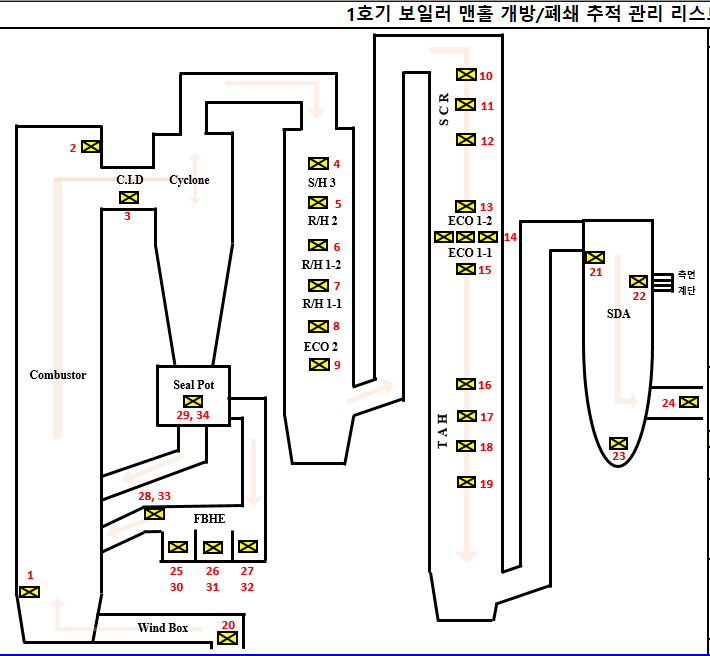
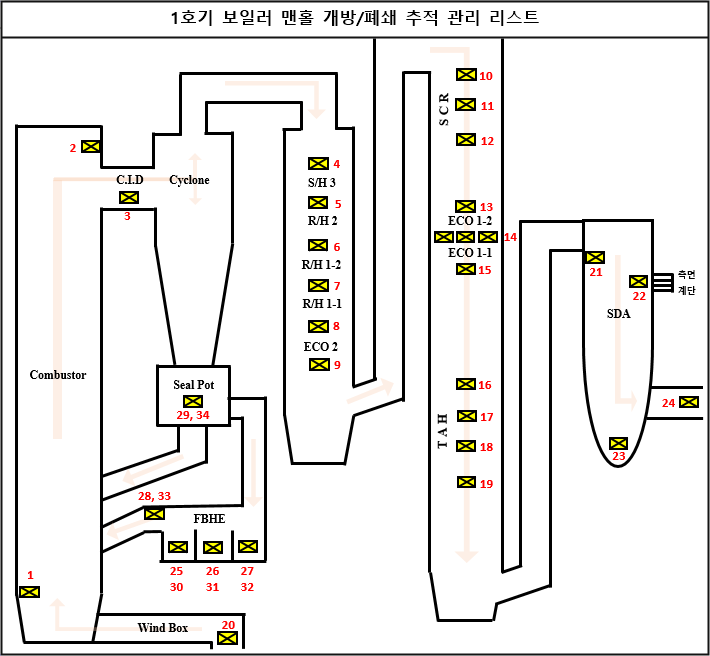
맨홀 도면 정리 및 상태 halo 좌표 보정

Changed region(s): [[0.0, 0.0, 1.0, 1.0]]

diff --git a/maintenance/manhole-management.css b/maintenance/manhole-management.css
@@ -2708,3 +2708,114 @@ tr.is-close [data-manhole-diagram-status-group]::before {
 .manhole-table tbody tr.is-close td {
   background: #eef1f4 !important;
 }
+
+/* =========================================================
+   MANHOLE_FINAL_STATUS_ANCHOR_V19
+========================================================= */
+
+.manhole-original-diagram,
+.manhole-original-diagram__image {
+  border: 0 !important;
+  outline: 0 !important;
+  box-shadow: none !important;
+  filter: none !important;
+}
+
+.manhole-diagram-status-symbol {
+  position: absolute !important;
+  left: var(--marker-x) !important;
+  top: var(--marker-y) !important;
+  width: 0 !important;
+  height: 0 !important;
+  min-width: 0 !important;
+  min-height: 0 !important;
+  transform: none !important;
+  border: 0 !important;
+  outline: 0 !important;
+  background: transparent !important;
+  box-shadow: none !important;
+  filter: none !important;
+  color: transparent !important;
+  font-size: 0 !important;
+  line-height: 0 !important;
+  overflow: visible !important;
+  pointer-events: none !important;
+  z-index: 5 !important;
+}
+
+.manhole-diagram-status-symbol::after {
+  content: none !important;
+  display: none !important;
+}
+
+.manhole-diagram-status-symbol::before,
+.manhole-diagram-status-symbol.is-unknown::before {
+  content: none !important;
+  display: none !important;
+}
+
+.manhole-diagram-status-symbol.is-open::before {
+  content: "" !important;
+  display: block !important;
+  position: absolute !important;
+  left: 0 !important;
+  top: 0 !important;
+  width: 46px !important;
+  height: 46px !important;
+  transform: translate(-50%, -50%) !important;
+  border: 0 !important;
+  outline: 0 !important;
+  border-radius: 50% !important;
+  background: rgba(250, 204, 21, 0.28) !important;
+  box-shadow: none !important;
+}
+
+.manhole-diagram-status-symbol.is-close::before {
+  content: "" !important;
+  display: block !important;
+  position: absolute !important;
+  left: 0 !important;
+  top: 0 !important;
+  width: 46px !important;
+  height: 46px !important;
+  transform: translate(-50%, -50%) !important;
+  border: 0 !important;
+  outline: 0 !important;
+  border-radius: 50% !important;
+  background: rgba(75, 85, 99, 0.25) !important;
+  box-shadow: none !important;
+}
+
+.manhole-diagram-status-symbol.is-mixed::before {
+  content: "" !important;
+  display: block !important;
+  position: absolute !important;
+  left: 0 !important;
+  top: 0 !important;
+  width: 46px !important;
+  height: 46px !important;
+  transform: translate(-50%, -50%) !important;
+  border: 0 !important;
+  outline: 0 !important;
+  border-radius: 50% !important;
+  background: linear-gradient(90deg,rgba(250,204,21,0.28) 0 50%,rgba(75,85,99,0.25) 50% 100%) !important;
+  box-shadow: none !important;
+}
+
+.manhole-list-panel .manhole-table tbody tr.is-close > td {
+  background: #e8ebef !important;
+}
+
+.manhole-list-panel .manhole-table tbody tr.is-close:hover > td {
+  background: #dfe4e8 !important;
+}
+
+.manhole-list-panel .manhole-table tbody tr.is-close select,
+.manhole-list-panel .manhole-table tbody tr.is-close input {
+  background: #f0f2f4 !important;
+}
+
+.manhole-list-panel .manhole-table tbody tr.is-open > td,
+.manhole-list-panel .manhole-table tbody tr:not(.is-open):not(.is-close) > td {
+  background: #ffffff;
+}
